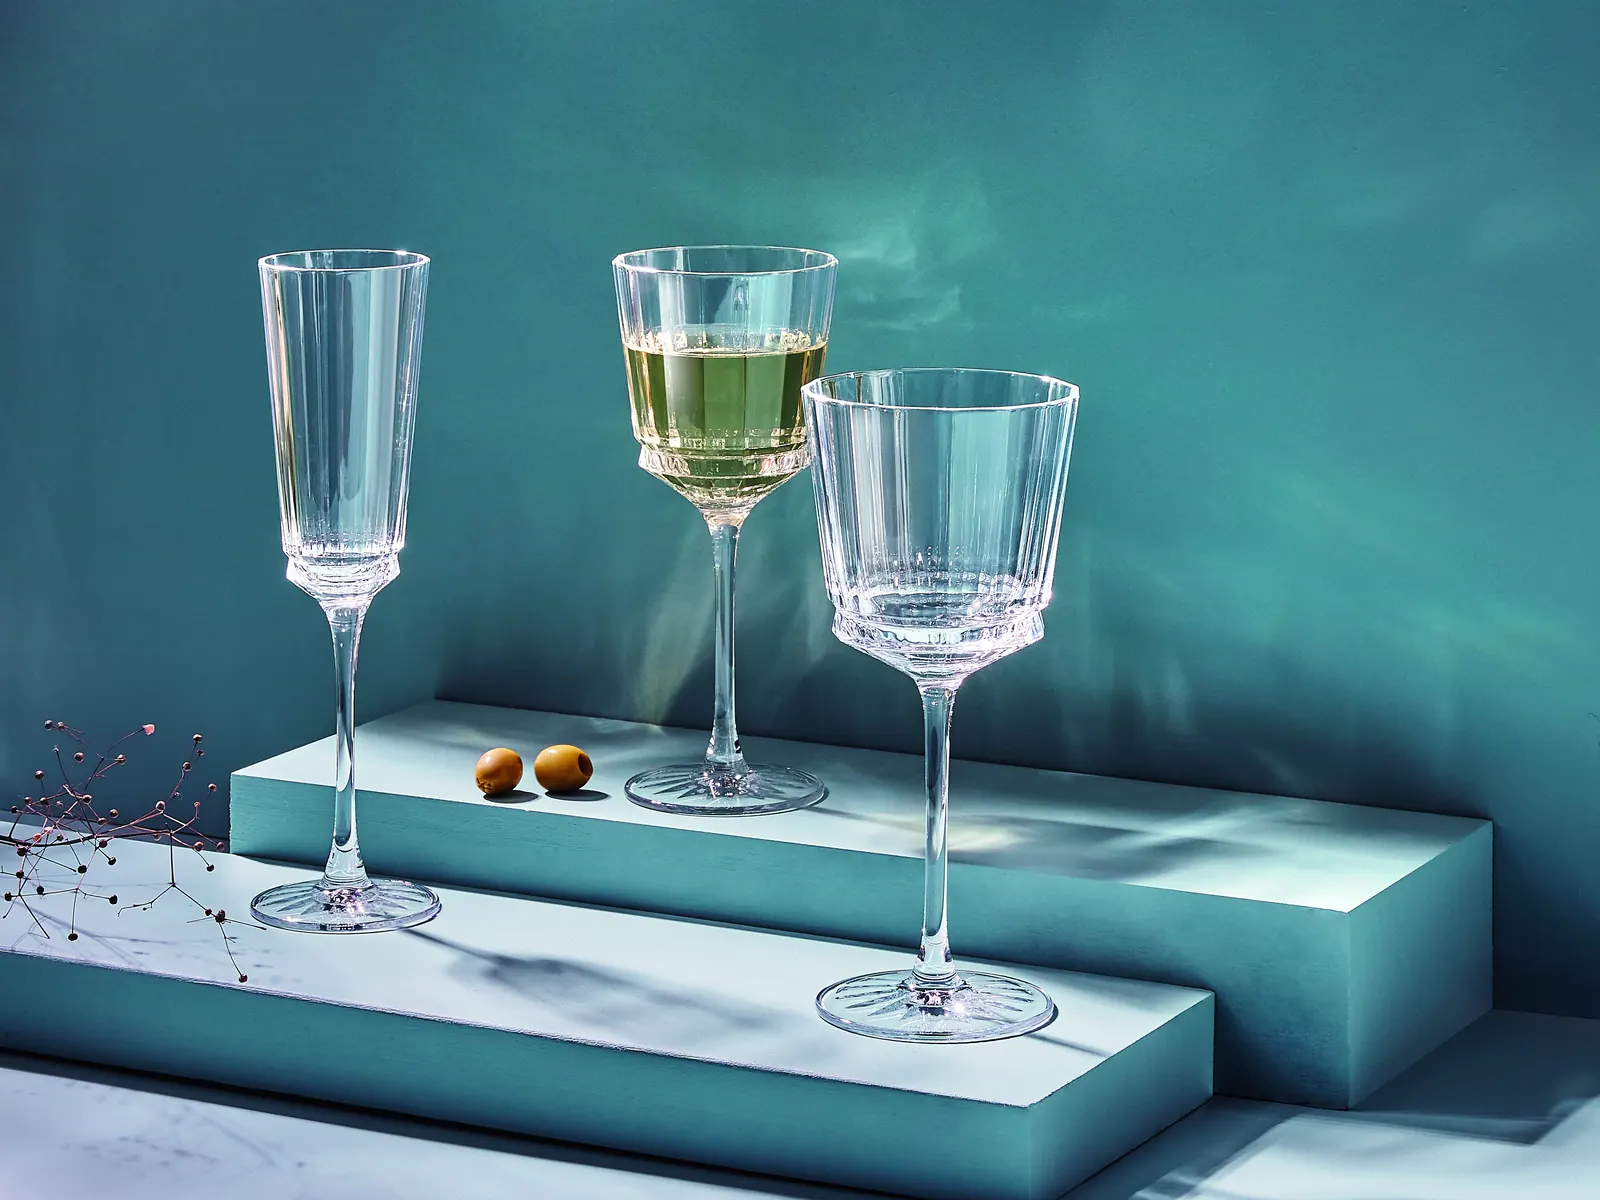
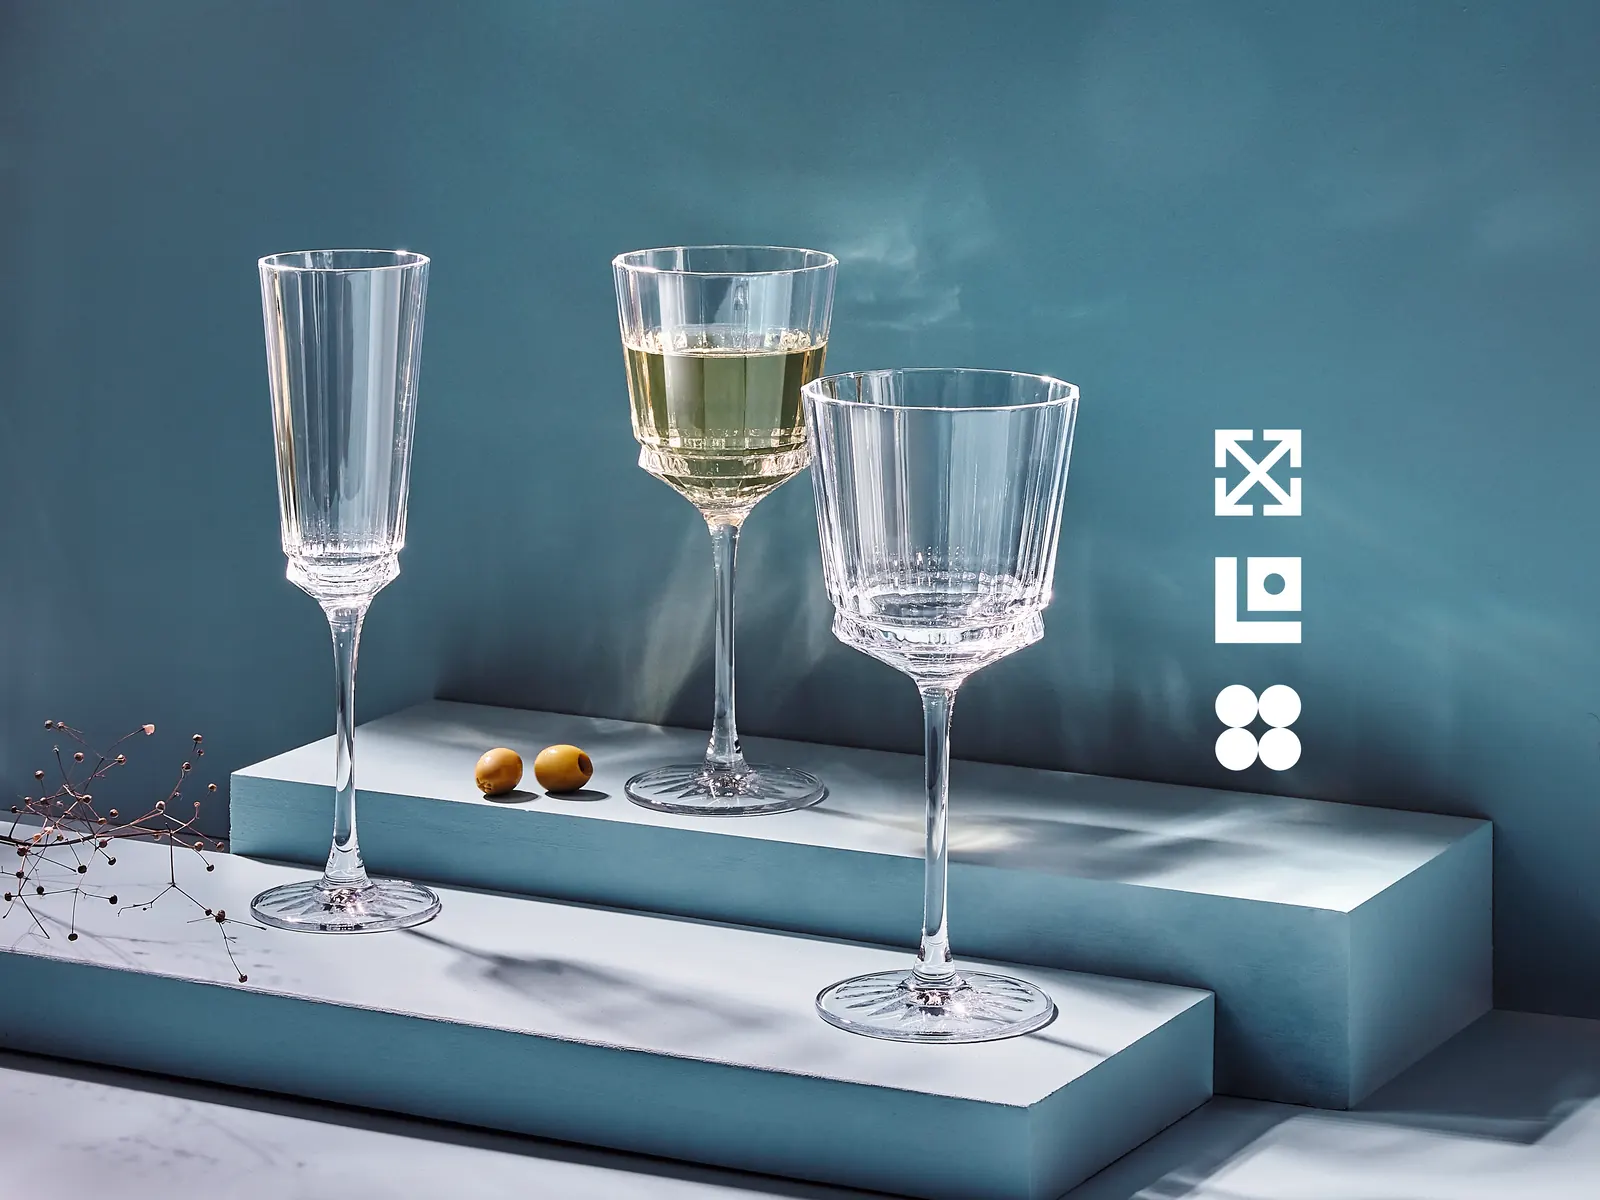
Corlima Tools: foto nueva y fuera el isotipo de IRIS de la placa
- Reemplazado el webp con la version que trae las marcas de producto a
  la derecha. Misma receta: recorte 4:3 centrado, 1600x1200, calidad 78.
  100 KB, once menos que la anterior. Sello ?v=2 en la ruta.
- Quitado el isotipo de IRIS que iba centrado sobre las copas, y sus
  estilos, que ya no los usaba nadie.
- El velo se aligera: ya solo tiene que sostener la etiqueta PRIVADO,
  asi que la foto se ve mas limpia.

Claude-Session: https://claude.ai/code/session_01LbDozbuakSK3WPFomhunwG

diff --git a/index.html b/index.html
@@ -133,10 +133,8 @@
     .case__media--corlima{position:relative;display:grid;place-items:center;overflow:hidden;background:#0d0d10}
     /* velo para que el isotipo y la etiqueta se lean sobre la foto */
     .case__media--corlima::after{content:"";position:absolute;inset:0;z-index:1;
-      background:linear-gradient(180deg,rgba(8,8,14,.55) 0%,rgba(8,8,14,.12) 42%,rgba(8,8,14,.62) 100%)}
+      background:linear-gradient(180deg,rgba(8,8,14,.42) 0%,rgba(8,8,14,.06) 38%,rgba(8,8,14,.34) 100%)}
     .case__media--corlima .case__badge,.case__media--corlima .case__plus{z-index:3}
-    .case__iso{position:relative;z-index:2;width:26%;max-width:104px;line-height:0;filter:drop-shadow(0 8px 26px rgba(0,0,0,.55))}
-    .case__iso svg{display:block;width:100%;height:auto}
     .case__badge{position:absolute;top:12px;left:12px;z-index:4;display:inline-flex;align-items:center;gap:6px;
       font-family:var(--font-mono,ui-monospace,monospace);font-size:10px;font-weight:600;letter-spacing:.14em;
       text-transform:uppercase;padding:5px 10px;border-radius:999px;color:#fff;
@@ -494,9 +492,8 @@
 
         <article class="case case--b">
           <a class="case__media case__media--corlima" href="#" data-corlima role="button" aria-label="Abrir Corlima Tools (acceso privado)">
-            <img class="case__img" src="./assets/corlima-case.webp" alt="Cristalería del catálogo de Corlima" width="1600" height="1200" loading="lazy" decoding="async">
+            <img class="case__img" src="./assets/corlima-case.webp?v=2" alt="Cristalería del catálogo de Corlima" width="1600" height="1200" loading="lazy" decoding="async">
             <span class="case__badge label"><svg viewBox="0 0 24 24" fill="none" stroke="currentColor" stroke-width="2.4" aria-hidden="true"><rect x="5" y="11" width="14" height="9" rx="2"/><path d="M8 11V8a4 4 0 0 1 8 0v3"/></svg>Privado</span>
-            <span class="case__iso" aria-hidden="true"><svg viewBox="0 0 876.27 874.82" xmlns="http://www.w3.org/2000/svg"><path fill="#fff" d="M1.08,582.41L0,302.19C-.65,131.46,130.07-1.65,303,.02l306.38,2.95c152.34,1.47,267.72,141.24,266.88,290.55l-1.72,307.39c-.86,154.14-136.95,274.21-288.33,273.92l-299.69-.58C128.09,873.93,1.69,742.98,1.08,582.41ZM670.98,820.63c85.92-7.81,145.77-71.41,151.41-157.79,5.07-77.74-16.57-152.57-53.84-222.68-82.97-156.09-213.93-281-375.71-352.86-56.61-25.15-115.91-37.9-176.04-34.9C124.83,56.97,57.47,124.72,53.55,217.62c-11.51,273.02,343.75,627.9,617.43,603.01Z"/></svg></span>
             <span class="case__plus" aria-hidden="true">+</span>
           </a>
           <div class="case__meta">
